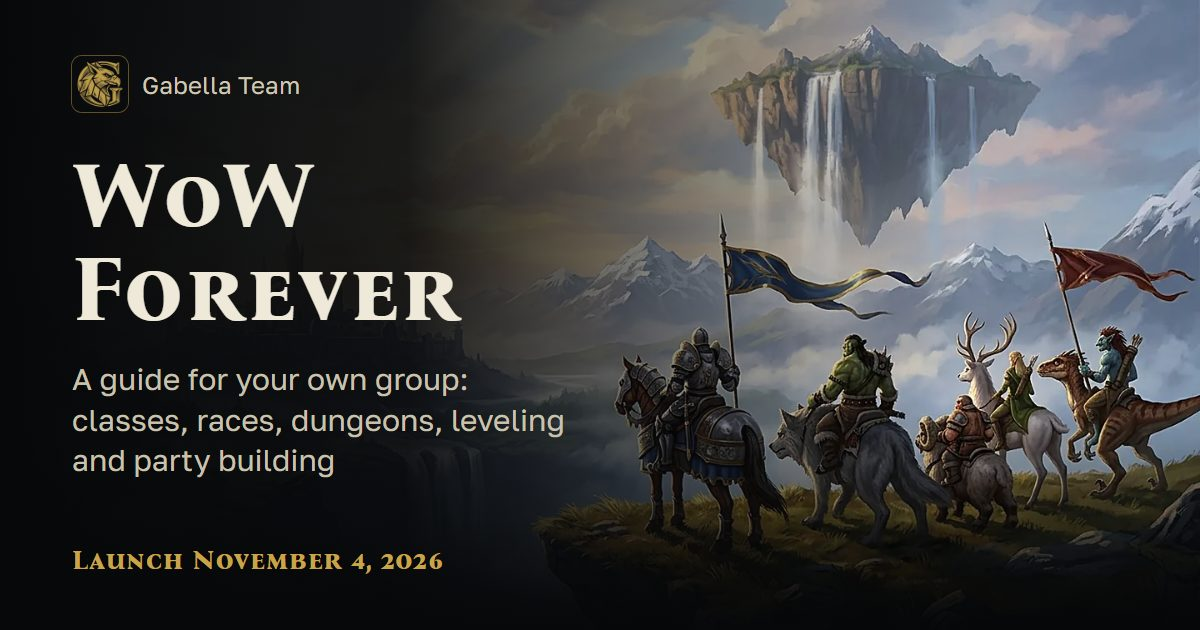
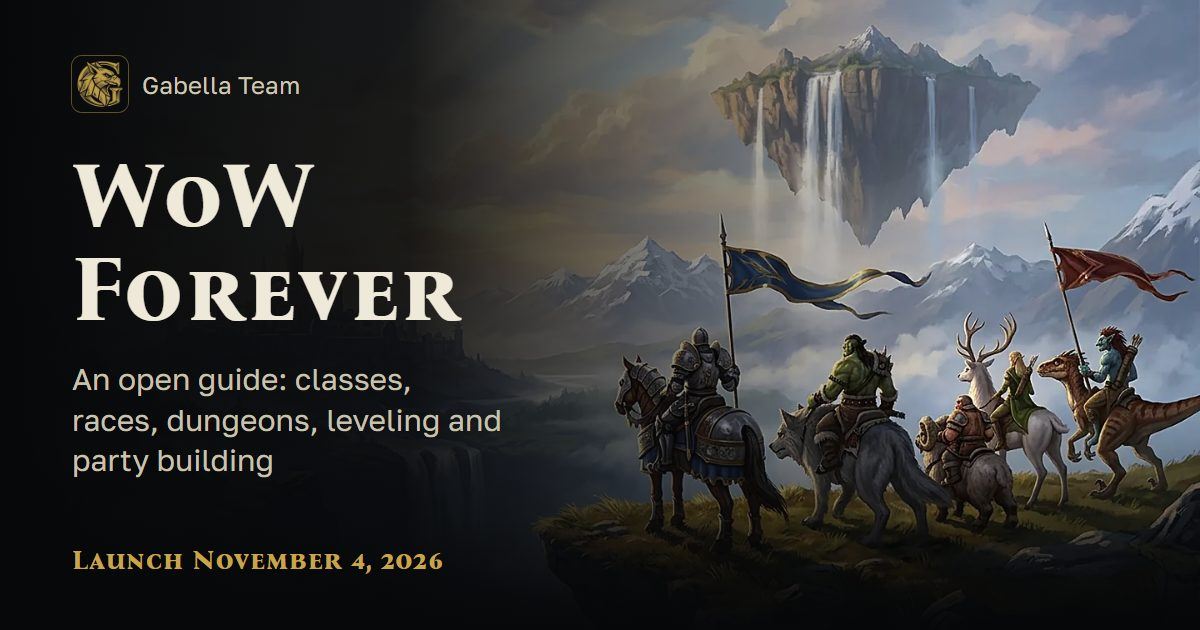
Гид: «для своей компании» → «Открытый гид» (ru/en/uk) и новые OG-превью

Changed region(s): [[0.0617, 0.573, 0.4933, 0.754]]

diff --git a/index.src.html b/index.src.html
@@ -13,7 +13,7 @@
 </script>
 <meta name="viewport" content="width=device-width, initial-scale=1">
 <title>WoW Forever: гид Gabella Team</title>
-<meta name="description" content="Гид по WoW Forever для компании друзей: классы, расы, комбинации, Legacy, лагерь, подземелья, рейды и подбор состава группы. Данные на 23.10.2026.">
+<meta name="description" content="Открытый гид по WoW Forever: классы, расы, комбинации, Legacy, лагерь, подземелья, рейды и подбор состава группы. Данные на 23.10.2026.">
 <meta name="theme-color" content="#060708">
 <link rel="alternate" hreflang="ru" href="https://gabella.site/wow/">
 <link rel="alternate" hreflang="en" href="https://gabella.site/wow/en/">
@@ -827,7 +827,7 @@ dialog.sheet::backdrop { background: rgba(0,0,0,.6); }
   </picture>
   <div class="wrap hero-in">
     <h1>World of Warcraft <span>Forever</span></h1>
-    <p class="lead">Классы, расы, сбор группы и всё, что нужно знать к старту 4 ноября. Собрано для своей компании, с источниками и датой.</p>
+    <p class="lead">Классы, расы, сбор группы и всё, что нужно знать к старту 4 ноября. Собрано открыто: с источниками и датой.</p>
     <div class="cd" id="cd" aria-live="polite"></div>
     <div class="cta">
       <a class="btn lg" href="#classes">Выбрать класс</a>

diff --git a/index.html b/index.html
@@ -835,7 +835,7 @@ dialog.sheet::backdrop { background: rgba(0,0,0,.6); }
   </picture>
   <div class="wrap hero-in">
     <h1>World of Warcraft <span>Forever</span></h1>
-    <p class="lead">Классы, расы, сбор группы и всё, что нужно знать к старту 4 ноября. Собрано для своей компании, с источниками и датой.</p>
+    <p class="lead">Классы, расы, сбор группы и всё, что нужно знать к старту 4 ноября. Собрано открыто: с источниками и датой.</p>
     <div class="cd" id="cd" aria-live="polite"></div>
     <div class="cta">
       <a class="btn lg" href="#classes">Выбрать класс</a>

diff --git a/uk/index.html b/uk/index.html
@@ -835,7 +835,7 @@ dialog.sheet::backdrop { background: rgba(0,0,0,.6); }
   </picture>
   <div class="wrap hero-in">
     <h1>World of Warcraft <span>Forever</span></h1>
-    <p class="lead">Класи, раси, збір групи й усе, що треба знати до старту 4 листопада. Зібрано для своєї компанії, з джерелами та датою.</p>
+    <p class="lead">Класи, раси, збір групи й усе, що треба знати до старту 4 листопада. Зібрано відкрито: з джерелами та датою.</p>
     <div class="cd" id="cd" aria-live="polite"></div>
     <div class="cta">
       <a class="btn lg" href="#classes">Обрати клас</a>

diff --git a/sw.js b/sw.js
@@ -4,7 +4,7 @@
    GitHub Pages lets browsers keep files only 10 minutes, so repeat visits come from here instead.
    VERSION is written by build.py from the contents of assets/ and the manifests: any changed file gives
    a new worker, which drops the old caches on activate. */
-const VERSION = '8f23a46fe7';
+const VERSION = '8da5ebbec7';
 const PAGES = 'pages-' + VERSION, FILES = 'files-' + VERSION;
 const PRECACHE = ['./', 'assets/fonts/bona-nova-sc-cyrillic.woff2', 'assets/fonts/bona-nova-sc-latin.woff2',
   'assets/fonts/golos-text-cyrillic.woff2', 'assets/fonts/golos-text-latin.woff2', 'assets/icons/icon-192.png'];

diff --git a/en/index.html b/en/index.html
@@ -835,7 +835,7 @@ dialog.sheet::backdrop { background: rgba(0,0,0,.6); }
   </picture>
   <div class="wrap hero-in">
     <h1>World of Warcraft <span>Forever</span></h1>
-    <p class="lead">Classes, races, group building and everything you need for the November 4 launch. Made for our own crew, with sources and dates.</p>
+    <p class="lead">Classes, races, group building and everything you need for the November 4 launch. Made in the open, with sources and dates.</p>
     <div class="cd" id="cd" aria-live="polite"></div>
     <div class="cta">
       <a class="btn lg" href="#classes">Choose a class</a>

diff --git a/tools/make_og.py b/tools/make_og.py
@@ -14,9 +14,9 @@ LANGS = ('ru', 'en', 'uk')
 BRAND = 'Gabella Team'
 START = {'ru': 'Старт 4 ноября 2026', 'en': 'Launch November 4, 2026', 'uk': 'Старт 4 листопада 2026'}
 HOME = {'t': {'ru': 'WoW Forever', 'en': 'WoW Forever', 'uk': 'WoW Forever'},
-        'd': {'ru': 'Гид для своей компании: классы, расы, подземелья, прокачка и сборка группы',
-              'en': 'A guide for your own group: classes, races, dungeons, leveling and party building',
-              'uk': 'Гід для своєї компанії: класи, раси, підземелля, прокачування та збір групи'}}
+        'd': {'ru': 'Открытый гид: классы, расы, подземелья, прокачка и сборка группы',
+              'en': 'An open guide: classes, races, dungeons, leveling and party building',
+              'uk': 'Відкритий гід: класи, раси, підземелля, прокачування та збір групи'}}
 TOOLS = {'t': {'ru': 'Инструменты', 'en': 'Tools', 'uk': 'Інструменти'},
          'd': {'ru': 'Рамки группы, рейдовая сетка, сравнение классов и рас, поиск по гиду',
                'en': 'Party frames, raid grid, class and race comparison, guide search',
